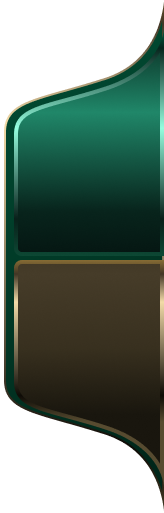
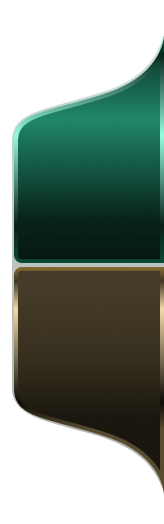
플로팅 메뉴 수정

Changed region(s): [[0.0, 0.0, 1.0, 0.9981]]

diff --git a/markup/assets/css/scss/layouts/_floating.scss b/markup/assets/css/scss/layouts/_floating.scss
@@ -5,7 +5,7 @@
 // =======================================
 
 .floating-menu {
-  width: 88px;
+  width: 86px;
   position: fixed;
   top: 108px;
   right: 0px;
@@ -24,14 +24,15 @@
 
   .floating-kngil {
     position: relative;
-    width: 84px;
-    height: 220px;
+    width: 76px;
+    height: 208px;
     padding: 12px 4px;
     margin-right: 4px;
     background-image: url(../img/bg_floating.png);
     background-position: center;
     background-repeat: no-repeat;
     background-size: cover;
+
     overflow: hidden;
     z-index: 2;
     
@@ -50,13 +51,18 @@
     }
     a {
       width: 100%;
-      height: 100%;
+      height: 86%;
       gap: 8px;
       flex-direction: column;
-      padding-top: 20px;
+      margin-top: 12px;
       pointer-events: auto;
-      border-radius: 130px 0  130px 20px;
+      border-radius: 16px;
+      transform: skewY(-20deg);
       @include flex(center, center);
+      i,
+      span {
+        transform: skewY(20deg);
+      }
       &:hover{
         span{
           color:#FFD700;  
@@ -101,10 +107,10 @@
     z-index: 1;
     @include flex(center, center);
     @include mq(tablet-wide, min) {
-      margin-top: -44px;
+      margin-top: -56px;
     }
     @include mq(desktop, min) {
-      margin-top: -58px;
+      margin-top: -72px;
     }
 
     @include mq(desktop, max) {
